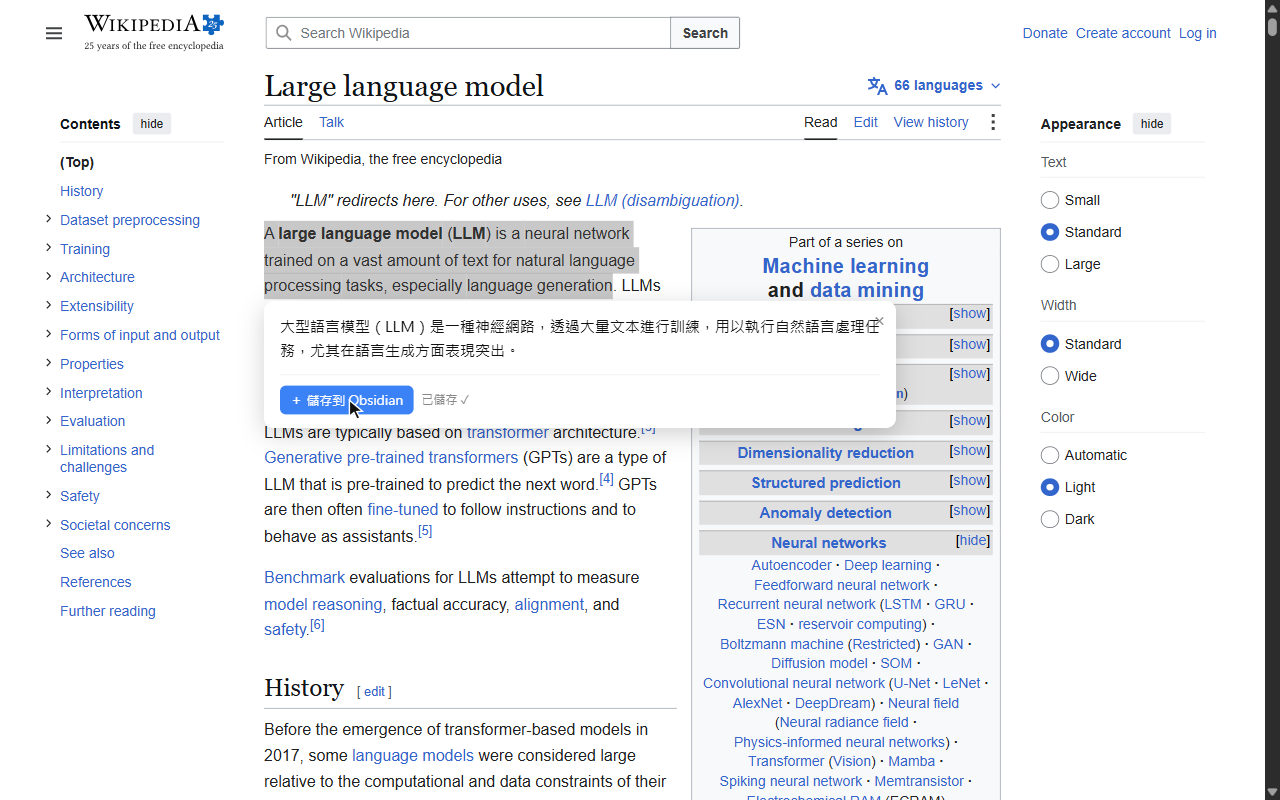
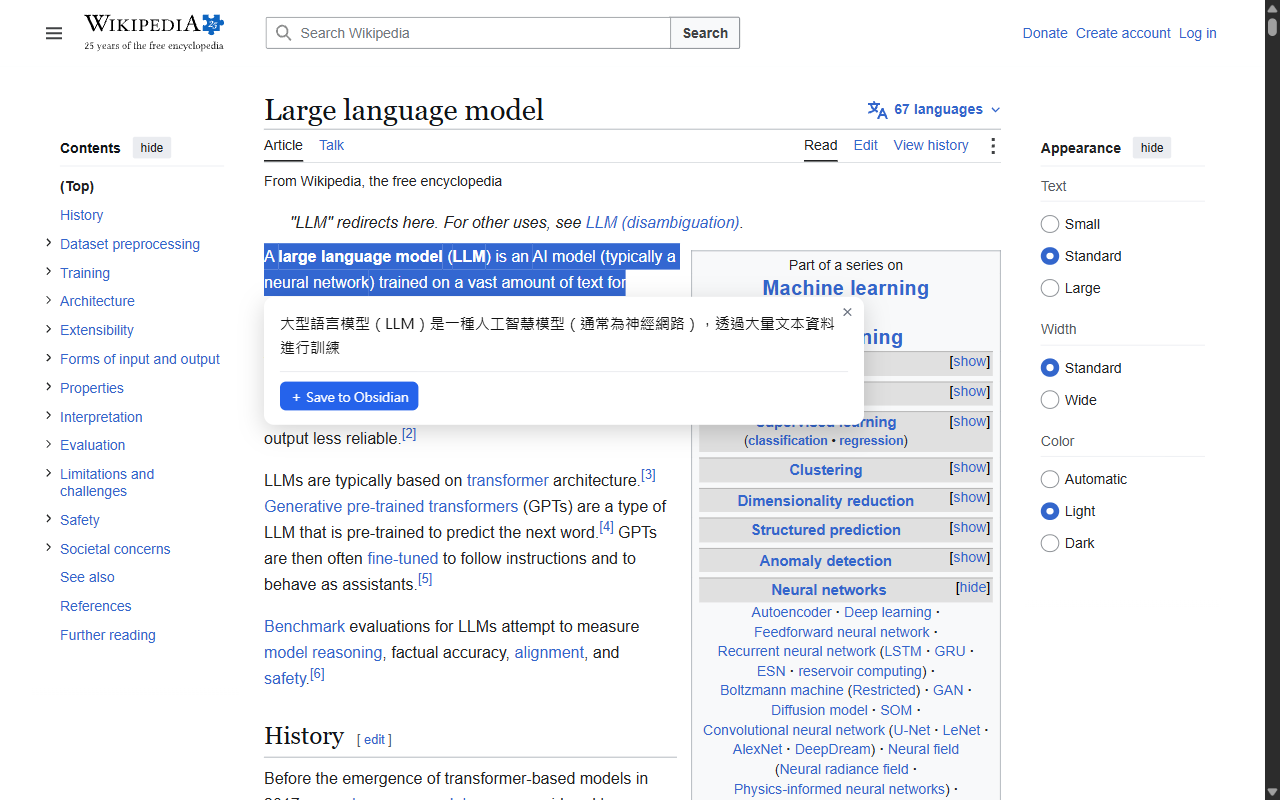
docs: retake the capture screenshot against the shipped UI (#28)
The image showed `＋ 儲存到 Obsidian` and `已儲存 ✓`, two strings that no longer
exist — the capture bar has been English since 2.2.2 and the save state has read
"Sent to Obsidian ↗" since 2.2.6, because handing a URL to the OS protocol
handler returns no completion signal.

Retaken from the real extension in Chrome for Testing at 1280x800, driven with
real mouse input against a live Ollama: a drag selects the article's opening
sentence, the 文 button opens the panel, and qwen3 streams the translation in.
Two other fixes are visible in the same frame — the panel is light on a light
page (2.2.12 samples the background behind the selection rather than asking the
OS) and the 文 icon is gone rather than sitting on top of the panel it opened.

Not clicked: the save button itself. Firing `obsidian://new` would write a test
note into a real vault, which is not mine to do. The caption drops its mention
of the toast rather than implying a state the image does not show.

Still stale, and honest about it: demo-mdn.png, demo-pdf.png and demo.gif were
captured before the same string change and are not retaken here.

diff --git a/README.md b/README.md
@@ -188,7 +188,7 @@ protocol-handler URL fall back to the clipboard.
 
 |                                         Translate + one-tap capture on any page                                          |                                     …lands as a note in your Obsidian vault                                     |
 | :----------------------------------------------------------------------------------------------------------------------: | :-------------------------------------------------------------------------------------------------------------: |
-| ![Inline translation, the save-to-Obsidian button, and the saved toast on Wikipedia](docs/screenshots/capture-saved.png) | ![The captured note in Obsidian, its frontmatter rendered as Properties](docs/screenshots/capture-obsidian.png) |
+| ![Inline translation and the save-to-Obsidian button on Wikipedia](docs/screenshots/capture-saved.png) | ![The captured note in Obsidian, its frontmatter rendered as Properties](docs/screenshots/capture-obsidian.png) |
 
 <sub>And the exact Markdown OpenRead writes — the frontmatter is the `status: raw` handoff contract:</sub>
 
